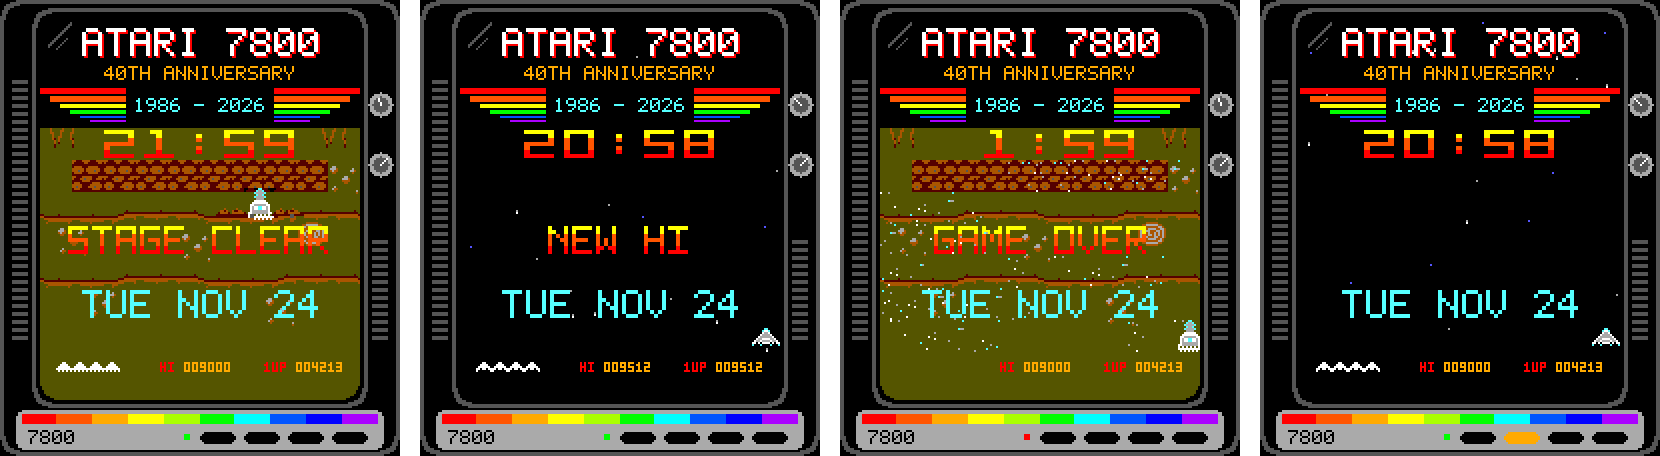
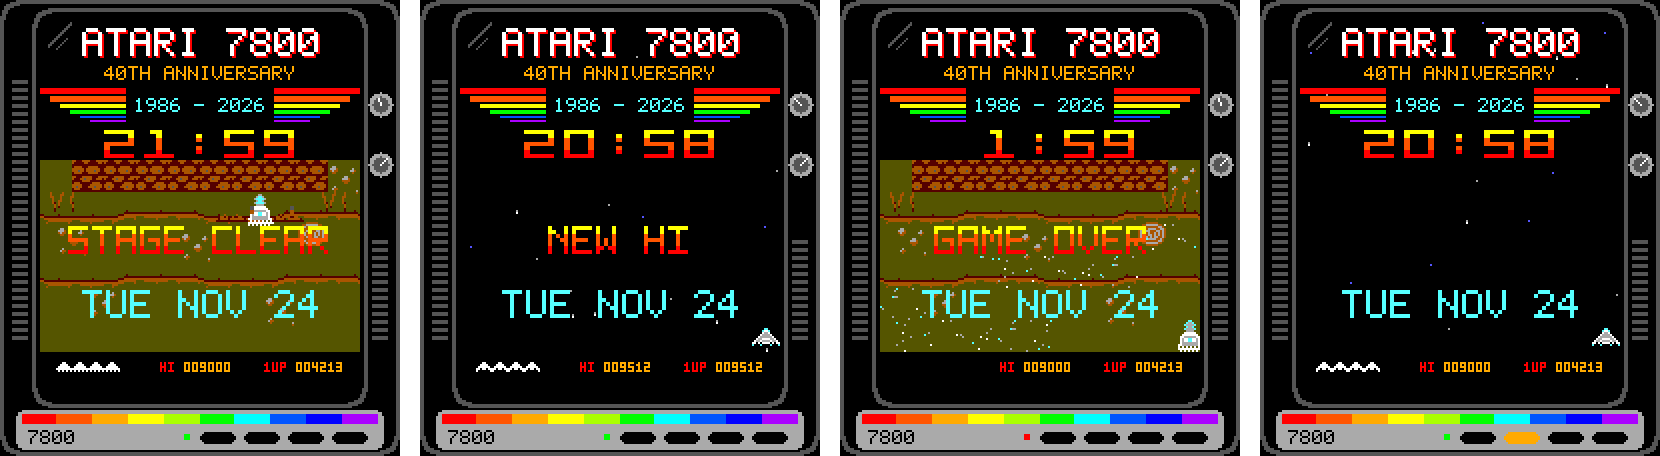
A black bar in every show
The lives, HI and 1UP bar (and the lines under it) now sit on black in every
show: a black band at the head of zone 12's list and alone in zone 13, from
palette 6 colour 2, which is now black in every show (the mounds drop their
olive for a gold rim and sand; the static keeps colour 2 black too).

Claude-Session: https://claude.ai/code/session_01JkRDbRSmr3zhAPW5dKuJH7

diff --git a/tools/mkstub.py b/tools/mkstub.py
@@ -162,13 +162,13 @@ BOULDER = [  # palette 5; starts 4 lines down
     "..111222222111..",
     "....11111111....",
 ]
-DUNE = [   # palette 6: olive, gold, sand; starts 5 lines down
-    "......2222......",
-    "....22222222....",
-    "..222233332222..",
-    ".22233311133322.",
-    "2223311111113322",
-    "3311111111111133",
+DUNE = [   # palette 6: gold rim, sand (colour 2 is black, for the bar); starts 5 lines down
+    "......1111......",
+    "....11111111....",
+    "..111133331111..",
+    ".11133333333311.",
+    "1113333333333311",
+    "3333333333333333",
 ]
 LANDER = [  # palette 1
     "......2222......",
@@ -591,10 +591,12 @@ BACKDROPS = [
 # so check that the ones that must differ still do through its table
 # (palette7800.c): $12 and $14, say, both come out dark olive
 SHOW_COLOURS = [
-    (0x00, 0x22, 0x24, 0x06, 0x14, 0x1A, 0x18, 0x86, 0x0A, 0x0F),   # formation: space
+    # palette 6 colour 2 is black in every show: the bar's background (and the
+    # drill's sky and shaft)
+    (0x00, 0x22, 0x24, 0x06, 0x1A, 0x00, 0x18, 0x86, 0x0A, 0x0F),   # formation: space
     (0x12, 0x22, 0x24, 0x06, 0x20, 0x00, 0x20, 0x32, 0x24, 0x0A),   # drill: under ground (6: the shaft)
-    (0xC2, 0x22, 0x24, 0x06, 0x14, 0x1A, 0x18, 0xD4, 0xF8, 0x34),   # bomber: farmland
-    (0x00, 0x04, 0x08, 0x0E, 0x14, 0x1A, 0x18, 0x84, 0xC8, 0x0F),   # lander: the moon
+    (0xC2, 0x22, 0x24, 0x06, 0x1A, 0x00, 0x18, 0xD4, 0xF8, 0x34),   # bomber: farmland
+    (0x00, 0x04, 0x08, 0x0E, 0x1A, 0x00, 0x18, 0x84, 0xC8, 0x0F),   # lander: the moon
 ]
 
 
@@ -839,13 +841,19 @@ blank_maps:
     STA MAP1,X
     DEX
     BPL blank_maps
-    LDX #$00                  ; zone 12's list, which never changes
-hud_list:
+    LDX #$00                  ; zone 12's list, which never changes: a black
+hud_list:                     ; band, then the lives, HI and 1UP
     LDA hud_dl_init,X
     STA HUD_DL,X
     INX
-    CPX #$0F
+    CPX #$17
     BNE hud_list
+    LDX #$07                  ; and zone 13, under the bar: the black band alone
+under_bar:
+    LDA hud_dl_init,X
+    STA HUD_DL+DL_STRIDE_ASM,X
+    DEX
+    BPL under_bar
     LDA #>gfx2                ; characters come from the second graphics block
     STA CHARBASE
     LDA #$36
@@ -978,11 +986,9 @@ dll_pick:
     INX                       ; ... and holey DMA off for the static
     INX
     LDA #$00
-    STA SHADOW                ; black behind it, palette 6 its greys
-    LDA #$06
+    STA SHADOW                ; black behind it, palette 6 its greys (colour 2
+    LDA #$06                  ; stays black, for the bar)
     STA SHADOW+4
-    LDA #$0A
-    STA SHADOW+5
     LDA #$0F
     STA SHADOW+6
 dll_picked:
@@ -2517,7 +2523,11 @@ def source():
     a("    .byte " + ",".join("$%02X" % ((DLBASE + z * DL_STRIDE) & 0xFF) for z in range(DL_ZONES)))
     a("zhi:")
     a("    .byte " + ",".join("$%02X" % ((DLBASE + z * DL_STRIDE) >> 8) for z in range(DL_ZONES)))
-    a("hud_dl_init:          ; character-mode entries, palette 4: lives, HI, 1UP")
+    a("DL_STRIDE_ASM = $%02X" % DL_STRIDE)
+    a("hud_dl_init:          ; the black band (palette 6 colour 2), then character-mode")
+    a("                      ; entries, palette 4: lives, HI, 1UP")
+    a("    .byte BAND,$%02X,>gfx2,$00" % pw(6, 20))
+    a("    .byte BAND,$%02X,>gfx2,$50" % pw(6, 20))
     a("    .byte $%02X,$60,$%02X,$96,$08" % (MAP1 & 0xFF, MAP1 >> 8))
     a("    .byte $%02X,$60,$%02X,$97,$3C" % (MAP3 & 0xFF, MAP3 >> 8))
     a("    .byte $%02X,$60,$%02X,$96,$70" % (MAP2 & 0xFF, MAP2 >> 8))
